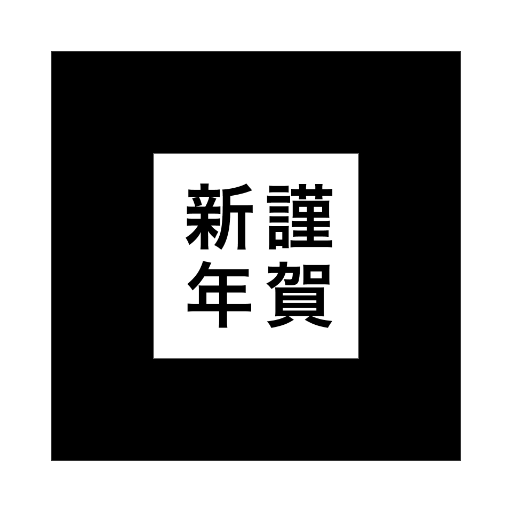
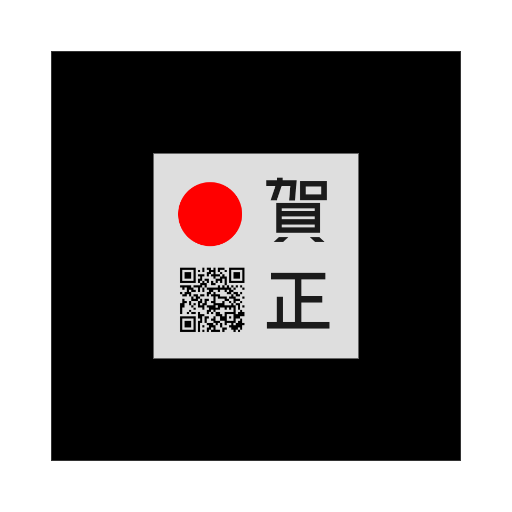
ARマーカーの差し替え

Changed region(s): [[0.2812, 0.2812, 0.7188, 0.7188]]

diff --git a/ar.html b/ar.html
@@ -24,8 +24,8 @@
       </a-assets>
 
       <!-- for AR Experiment -->
-      <!-- <a-marker preset='custom' type='pattern' url='marker/pattern-marker.patt'> -->
-      <a-marker preset='hiro'>
+      <!-- <a-marker preset='hiro'> -->
+      <a-marker preset='custom' type='pattern' url='marker/pattern-marker.patt'>
         <a-entity id='fuji' scale='0.6 0.6 0.6'>
           <a-obj-model src="#fuji-obj" mtl="#fuji-mtl"></a-obj-model>
         </a-entity>
